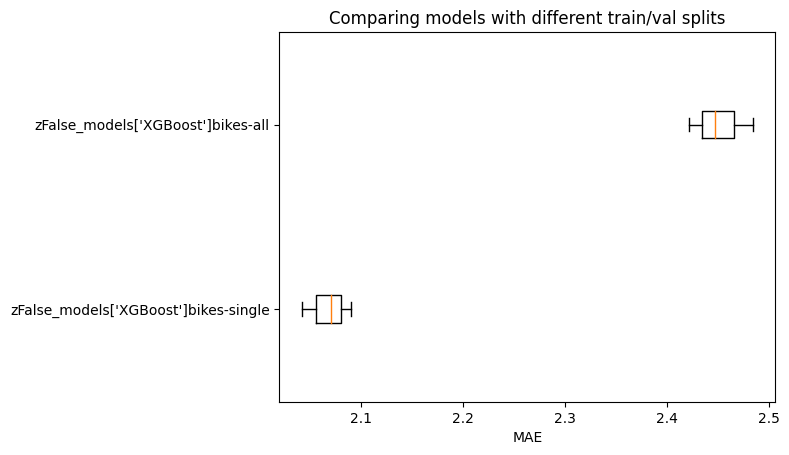
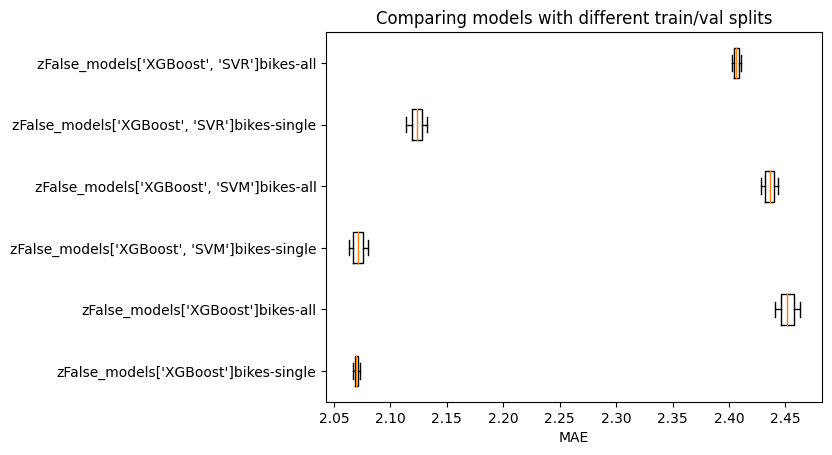
phase 2 compare multiple models

diff --git a/use_pre_trained_models.py b/use_pre_trained_models.py
@@ -5,6 +5,21 @@ import numpy as np
 from tqdm import tqdm
 from utils import write_dict, read_dict
 from read_data import get_all_model_csvs
+import matplotlib.pyplot as plt
+
+dict_path = './data/linear_models_MAEs.txt'
+load_model = True
+
+def pred_models(model_csvs, test_df):
+    '''
+    predict and average multiple models
+    '''
+    preds = []
+    for model_csv in model_csvs:
+        pred = pred_pretrained_model(model_csv, test_df)
+        preds.append(pred_pretrained_model(model_csv, test_df))
+    return np.mean(np.array(preds), axis=0)  # take mean of ensemble
+
 
 def pred_pretrained_model(model_csv, test_df):
     model_df = pd.read_csv(model_csv)
@@ -18,37 +33,64 @@ def MAE_model(model_csv, test_df):
     preds = pred_pretrained_model(model_csv, test_df)
     return mean_absolute_error(test_df['bikes'].to_numpy(), preds)
 
+def MAE(preds, test_df):
+    return mean_absolute_error(test_df['bikes'].to_numpy(), preds)
 
-def run_all_stations(dir='./data/Train/Train'):
-    model_csvs = get_all_model_csvs()
-    # go through all the training data
-    train_stations = os.listdir(dir)
+def run_all_stations(num_model_to_use=2, dir='./data/Train/Train'):
+    '''
+    get dict of MAE for each model at each station
+    '''
+    # load models is already computed
+    if os.path.exists(dict_path) and load_model:
+        MAEs_dict = read_dict(dict_path)
+    else:
+        model_csvs = get_all_model_csvs()
+        # go through all the training data
+        train_stations = os.listdir(dir)
+        MAEs_dict = {}
+        for station in tqdm(train_stations):
+            if os.path.splitext(station)[-1] == '.csv':
+                train_df = get_train_data_with_intercept(station, dir)
+                # now find which pretrained model 'fits' this station the best
+                # by getting MAE for all linear models
+                MAEs = []
+                for model_csv in model_csvs:
+                    MAEs.append(MAE_model(model_csv, train_df))
+                # save MAEs to dict
+                MAEs_dict[station] = MAEs
+        write_dict(MAEs_dict, dict_path)
+    return MAEs_dict
+
+def get_train_data_with_intercept(station, dir='./data/Train/Train'):
+    # read train data for current station
+    abs_path = os.path.join(dir, station)
+    train_df = pd.read_csv(abs_path).dropna().reset_index(drop=True)
+    # add intercept for matrix dot product linear models
+    train_df['(Intercept)'] = np.ones(len(train_df))
+    return train_df
+
+def get_top_models(MAEs_dict, num_model_to_use=2):
     best_model_each_station = {}
     best_model_error = []
-    for station in tqdm(train_stations):
-        if os.path.splitext(station)[-1] == '.csv':
-            abs_path = os.path.join(dir, station)
-            train_df = pd.read_csv(abs_path).dropna().reset_index(drop=True)
-            # now find which pretrained model fits this station the best
-            MAEs = []
-            train_df['(Intercept)'] = np.ones(len(train_df))
-            for model_csv in model_csvs:
-                MAEs.append(MAE_model(model_csv, train_df))
-            argmin = np.argmin(MAEs)
-            best_model_each_station[station] = model_csvs[argmin]
-            best_model_error.append(np.min(MAEs))
+    for station in MAEs_dict.keys():
+        model_csvs = get_all_model_csvs()
+        MAEs = MAEs_dict[station]
+        # take the i best models
+        best_model_each_station[station] = []
+        k_args_mins = np.argpartition(MAEs, kth=num_model_to_use)[:num_model_to_use]
+        for arg in k_args_mins:
+            best_model_each_station[station].append(model_csvs[arg])
+        # read train data for current station
+        train_df = get_train_data_with_intercept(station)
+        # predict all together
+        pred_together = pred_models(best_model_each_station[station], train_df)
+        best_model_error.append(MAE(pred_together, train_df))
     return best_model_each_station, np.mean(best_model_error)
 
 
-if __name__ == '__main__':
-    dict_path = './data/best_linear_models.txt'
-    load_model = True
-    if os.path.exists(dict_path) and load_model:
-        best_model_each_station = read_dict(dict_path)
-    else:
-        best_model_each_station, mean_all = run_all_stations()
-        write_dict(best_model_each_station, dict_path)
-        print(mean_all)
+def print_top_models(dir='./data/Train/Train'):
+    MAEs_dict = run_all_stations(dir)
+    best_model_each_station, mean_all = get_top_models(MAEs_dict, num_model_to_use=1)
     # analyse what models are selected/ performing best
     results_dict = {}
     for model in best_model_each_station.values():
@@ -58,3 +100,31 @@ if __name__ == '__main__':
         else:
             results_dict[model_name] = 0
     print(results_dict)
+
+def compare_num_models(dir='./data/Train/Train'):
+    MAEs = []
+    MAEs_dict = run_all_stations(dir)
+    num_models = []
+    for i in tqdm(range(1, 200)):
+        _, mean_all = get_top_models(MAEs_dict, num_model_to_use=i)
+        MAEs.append(mean_all)
+        num_models.append(i)
+    print(MAEs)
+    plt.plot(num_models, MAEs)
+    plt.xlabel('Number of linear models in ensemble')
+    plt.ylabel('average MAE')
+    plt.show()
+
+
+if __name__ == '__main__':
+    compare_num_models()
+
+
+    # dict_path = './data/linear_models_MAEs.txt'
+    # load_model = False
+    # if os.path.exists(dict_path) and load_model:
+    #     best_model_each_station = read_dict(dict_path)
+    # else:
+    #     best_model_each_station, mean_all = run_all_stations()
+    #     write_dict(best_model_each_station, dict_path)
+    #     print(mean_all)

diff --git a/phase1.py b/phase1.py
@@ -23,8 +23,9 @@ def train(X_train, y_train):
         clf.fit(X_train, y_train)
         clfs.append(clf)
     if 'XGBoost' in ARGS.models_list:
-        clf = xg.XGBRegressor(objective ='reg:squarederror',
-              n_estimators = 20, seed = 123)
+        clf = xg.XGBRegressor(objective='reg:squarederror',
+                              n_estimators=20,
+                              seed=123)
         clf.fit(X_train, y_train)
         clfs.append(clf)
     return clfs
